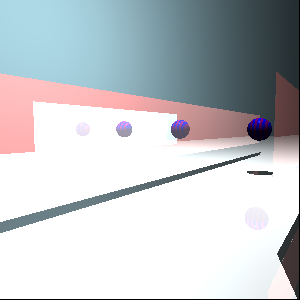
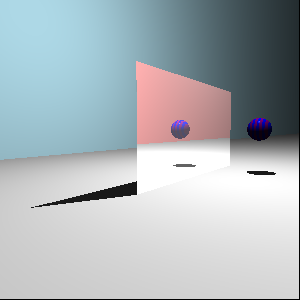
mirror

diff --git a/main.go b/main.go
@@ -486,6 +486,81 @@ func mirrors() {
 	canvas.ExportToPNG(f)
 }
 
+func mirror() {
+
+	width, height := 300.0, 300.0
+	// width, height := 1000.0, 1000.0
+
+	// setup world, default light and camera
+	w := tracer.NewDefaultWorld(width, height)
+	w.Config.MaxRecusions = 1
+
+	// override light here
+	w.SetLights([]tracer.Light{
+		tracer.NewPointLight(tracer.NewPoint(0, 10, 0), tracer.NewColor(1, 1, 1)),
+	})
+
+	// where the camera is and where it's pointing; also which way is "up"
+	from := tracer.NewPoint(3, 2, -10)
+	to := tracer.NewPoint(-4.5, 1, 0)
+	up := tracer.NewVector(0, 1, 0)
+	cameraTransform := tracer.ViewTransform(from, to, up)
+	w.Camera().SetTransform(cameraTransform)
+
+	// floor
+	floor := tracer.NewPlane()
+	floor.Material().Color = tracer.ColorName(colornames.White)
+	floor.Material().Specular = 0
+	floor.Material().Reflective = 0
+	w.AddObject(floor)
+
+	leftWall := tracer.NewPlane()
+	leftWall.Material().Color = tracer.ColorName(colornames.White)
+	leftWall.Material().Specular = 0
+	leftWall.Material().Reflective = 0
+	leftWall.SetTransform(
+		tracer.IdentityMatrix().RotateZ(math.Pi/2).Translate(-15, 0, 0))
+	leftWall.Material().Color = tracer.ColorName(colornames.Lightblue)
+	w.AddObject(leftWall)
+
+	rightWall := tracer.NewPlane()
+	rightWall.Material().Color = tracer.ColorName(colornames.White)
+	rightWall.Material().Specular = 0
+	rightWall.Material().Reflective = 0
+	rightWall.SetTransform(
+		tracer.IdentityMatrix().RotateZ(math.Pi/2).Translate(15, 0, 0))
+	rightWall.Material().Color = tracer.ColorName(colornames.Lightcoral)
+	w.AddObject(rightWall)
+
+	// mirror1
+	cube1 := tracer.NewUnitCube()
+	cube1.SetTransform(
+		tracer.IdentityMatrix().Scale(0.001, 4, 4).Translate(-2, 0, 0))
+	cube1.Material().Reflective = 1
+	// cube1.Material().Color = tracer.ColorName(colornames.Black)
+	w.AddObject(cube1)
+
+	// sphere1
+	sphere1 := tracer.NewUnitSphere()
+	sphere1.SetTransform(
+		tracer.IdentityMatrix().Scale(.5, .5, .5).Translate(0, 2, 2))
+	sphere1.Material().Color = tracer.ColorName(colornames.Yellow)
+	sphere1pattern := tracer.NewStripedPattern(tracer.ColorName(colornames.Blue), tracer.ColorName(colornames.Purple))
+	sphere1pattern.SetTransform(tracer.IdentityMatrix().Scale(0.2, 1, 1))
+	sphere1.Material().SetPattern(sphere1pattern)
+	w.AddObject(sphere1)
+
+	canvas := w.Render()
+
+	// Export
+	f, err := os.Create("image.png")
+	if err != nil {
+		log.Fatalln(err)
+	}
+
+	log.Printf("Exporting canvas to %v", f.Name())
+	canvas.ExportToPNG(f)
+}
 func main() {
 
 	flag.Parse()
@@ -508,7 +583,8 @@ func main() {
 	// sphere()
 	// scene()
 	// colors()
-	mirrors()
+	// mirrors()
+	mirror()
 
 	if *memprofile != "" {
 		f, err := os.Create(*memprofile)
